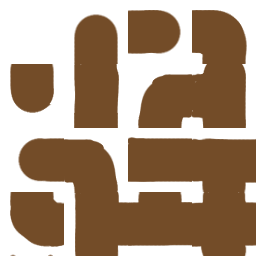
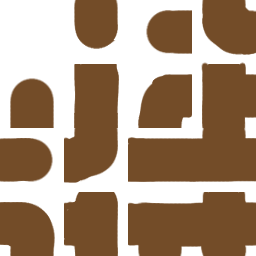
fixed assets

diff --git a/src/main.rs b/src/main.rs
@@ -6,15 +6,16 @@ mod ui;
 
 fn main() {
 
-    let maze = MazeBuilder::new(3, 3).create_maze();
+    let maze = MazeBuilder::new(9, 5).create_maze();
     eprint!("{}", maze.to_string());
 
     App::new()
         .insert_resource(ClearColor(Color::rgb(0.1, 0.1, 0. )))
         .insert_resource(WindowDescriptor {
             title: "Moria - Rust".to_string(),
-            width: 640.,
-            height: 480.,
+            // width: 640.,
+            // height: 480.,
+            mode: bevy::window::WindowMode::BorderlessFullscreen,
             ..Default::default()
         })
         .insert_resource(maze)
